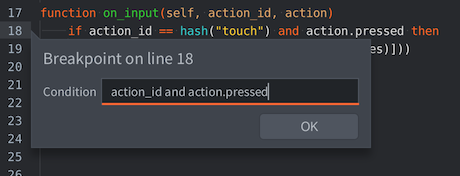
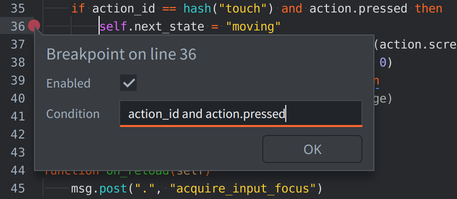
Breakpoints Tab documentation with image updates

Changed region(s): [[0.0, 0.0, 1.0, 1.0], [0.3676, 0.9091, 0.7046, 0.9943], [0.1532, 0.9091, 0.337, 0.9943]]

diff --git a/docs/en/manuals/debugging-game-logic.md b/docs/en/manuals/debugging-game-logic.md
@@ -87,6 +87,11 @@ Setting and clearing breakpoints
 
   To set or clear a breakpoint, click in the column just right of the line numbers in the code editor. You can also select <kbd>Edit ▸ Toggle Breakpoint</kbd> from the menu.
 
+Disabling and enabling breakpoints
+: Breakpoints can be temporarily disabled without removing them. When disabled, they are ignored during execution but can be re-enabled at any time. Right-click it in the code editor gutter, then toggle the Enabled checkbox. Disabled breakpoints appear hollowed out to indicate they are inactive.
+
+  ![disable breakpoint](images/debugging/disable_breakpoint.png)
+
 Setting conditional breakpoints
 : You can configure your breakpoint to contain a condition that needs to evaluate to true for the breakpoint to trigger. The condition can access local variables available at the line during code execution.
 
@@ -103,6 +108,26 @@ Evaluating Lua expressions
 
 Detaching the debugger
 : Select <kbd>Debug ▸ Detach Debugger</kbd> to detach the debugger from the game. It will continue running immediately.
+
+## Breakpoints Tab
+
+  ![breakpoints tab](images/debugging/breakpoints_tab.png)
+
+  When working with multiple breakpoints across different scripts, the Breakpoints tab provides a centralized view for managing all your breakpoints in one place.
+
+##### Individual Breakpoint Controls
+
+  For working with individual breakpoints:
+  - Click the red trash icon to remove a breakpoint
+  - Double-click the row (outside the condition area) to navigate to that line in the Code View
+  - Double-click the condition cell or click the pen icon to edit conditional breakpoints
+  - Click the X clear button when hovering over a condition cell to clear the condition
+
+##### Batch Operations
+
+  Select multiple breakpoints using Ctrl/Cmd+click or Shift+click, then right-click to perform bulk actions. You can edit conditions across several breakpoints simultaneously, toggle their active state, or remove them entirely.
+
+  The toolbar buttons allow you to enable, disable, or toggle all breakpoints at once, useful when you want to run your game without stopping but don't want to lose their positions. You can also remove all when you're done with your debugging session.
 
 ## Lua debug library
 
